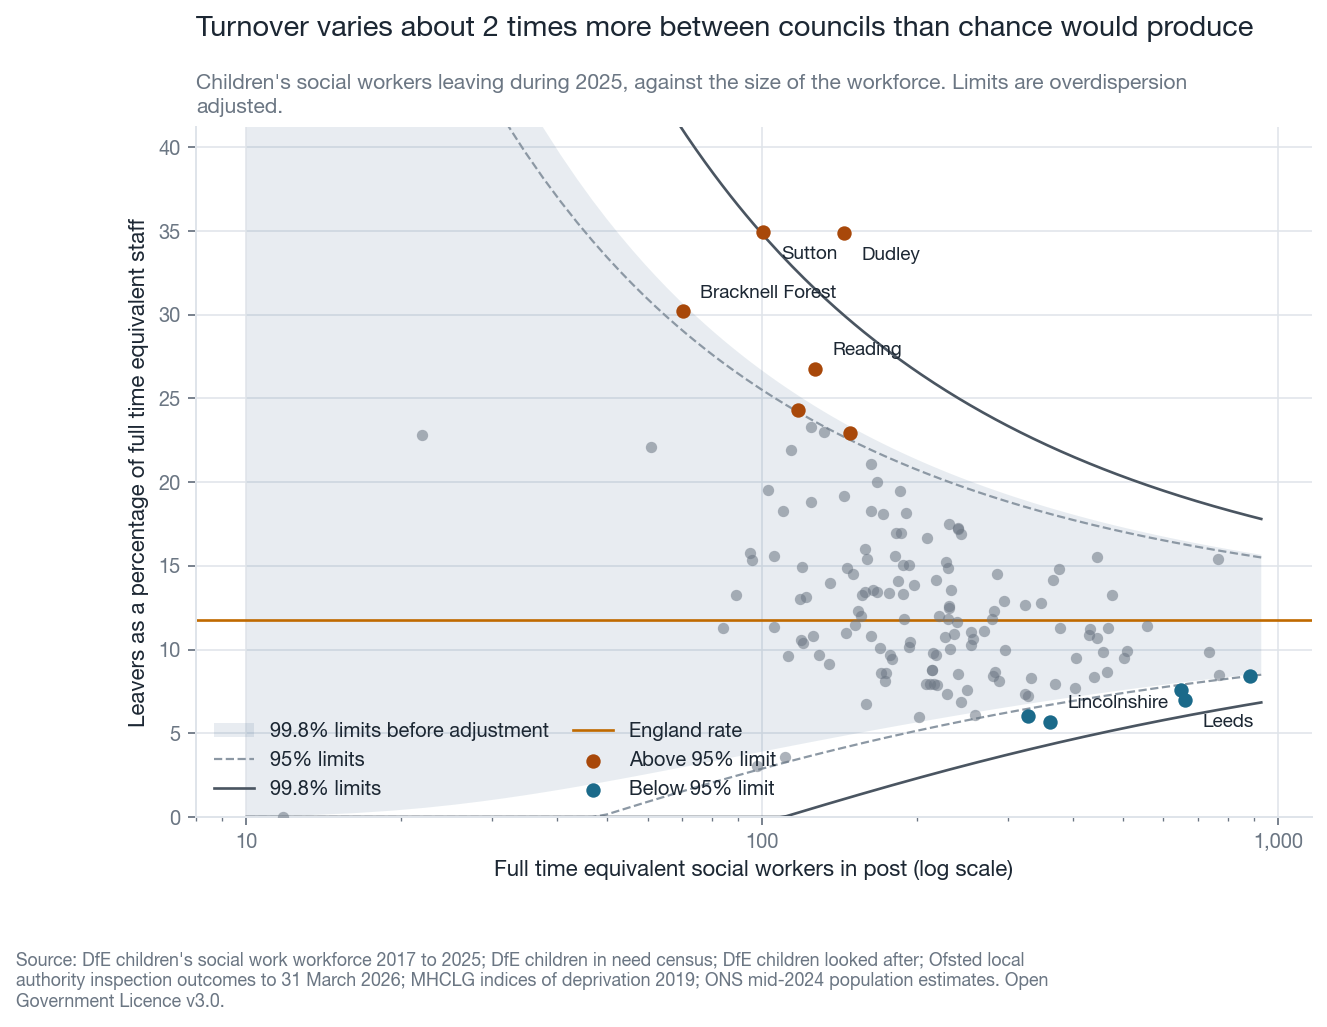
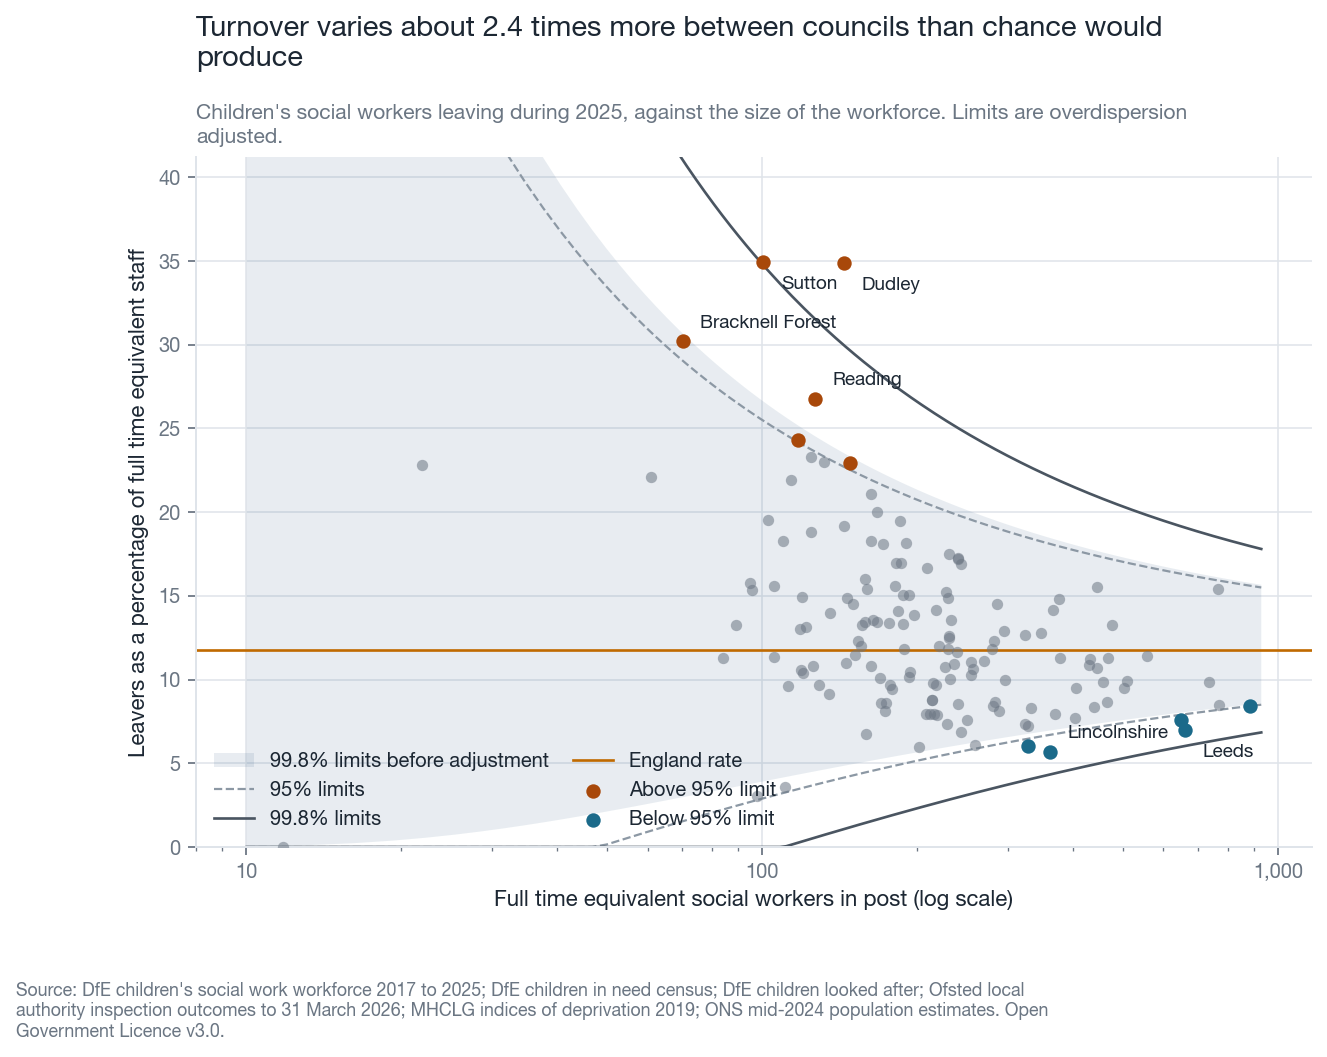
Derive the remaining narrative claims from findings rather than writing them in
The index README now reads the direction of the deprivation contrast and the
vacancy rate verdict from the data, so a rerun cannot leave prose that says the
opposite of the table beneath it.

diff --git a/render_readme.py b/render_readme.py
@@ -34,6 +34,17 @@ def render(adult: dict, children: dict) -> str:
     agency = children["panel_regression"]["rereferral_rate"]["terms"]["agency_rate_lag1"]
 
     manifest_count = len(adult.get("sources", {}))
+    # The direction of the deprivation contrast is read from the data rather than
+    # written in, so the sentence cannot end up saying the opposite of the table.
+    unstable_direction = (
+        "less deprived" if clusters["unstable_imd"] < clusters["other_imd"] else "more deprived"
+    )
+    vacancy = adult["model"]["irr"]["Care workforce vacancy rate"]
+    vacancy_verdict = (
+        "adds nothing once the others are in"
+        if vacancy["low"] <= 1.0 <= vacancy["high"]
+        else f"still moves the rate, at {vacancy['irr']:.2f} times per standard deviation"
+    )
 
     return f"""# Social care intelligence
 
@@ -59,7 +70,7 @@ Across {adult['authorities']} councils the long-term support rate runs from
 {fmt(funnel['phi'], 0)} times more than chance alone would produce. A negative
 binomial model with age structure, deprivation and region explains
 {fmt(model['deviance_explained'] * 100, 0)} per cent of that, the care workforce
-vacancy rate adds nothing once the others are in, and
+vacancy rate {vacancy_verdict}, and
 {panel['persistent']} councils sit outside the limits in almost every one of
 {panel['months']} monthly snapshots rather than occasionally.
 
@@ -81,7 +92,7 @@ risk of a downgrade, though with that few events this is weak evidence rather
 than proof of no effect. Agency reliance does track re-referrals within
 authorities over time, at {fmt(abs(agency['coefficient']), 2)} percentage points
 per point of agency rate. {clusters['unstable_size']} councils form a
-persistently unstable group, and they are less deprived than the rest, so
+persistently unstable group, and they are {unstable_direction} than the rest, so
 instability is not a deprivation story.
 
 [![Agency rate by region](projects/childrens-workforce/outputs/charts/trajectory_agency_rate.png)](projects/childrens-workforce/README.md)
@@ -170,7 +181,7 @@ the loaders and the statistical functions, run `pytest` from the repository root
 | Widest gap | {fmt(rates['ratio_max_min'], 1)}-fold in support rates | {fmt(descriptives['agency_spread_last'], 1)} points between regions on agency use |
 | Variation beyond chance | {fmt(funnel['phi'], 0)} times | {fmt(descriptives['turnover_phi'], 1)} times on turnover |
 | Explained by the model | {fmt(model['deviance_explained'] * 100, 0)} per cent of deviance | within R squared {fmt(children['panel_regression']['rereferral_rate']['r_squared_within'], 3)} |
-| Deprivation gradient | slope index {fmt(inequality['sii'])} per 100,000 | unstable group is the less deprived one |
+| Deprivation gradient | slope index {fmt(inequality['sii'])} per 100,000 | unstable group is the {unstable_direction} one |
 | What does not explain it | care workforce vacancy rate | every workforce measure, for Ofsted downgrades |
 
 ## How this was built

diff --git a/projects/childrens-workforce/make_all.py b/projects/childrens-workforce/make_all.py
@@ -157,7 +157,7 @@ def draw_descriptives(panel: pd.DataFrame, findings: dict) -> None:
         turnover_funnel,
         recent.set_index("la_code")["la_name"],
         title=(
-            f"Turnover varies about {turnover_funnel['phi']:.0f} times more between "
+            f"Turnover varies about {turnover_funnel['phi']:.1f} times more between "
             f"councils than chance would produce"
         ),
         subtitle=(
